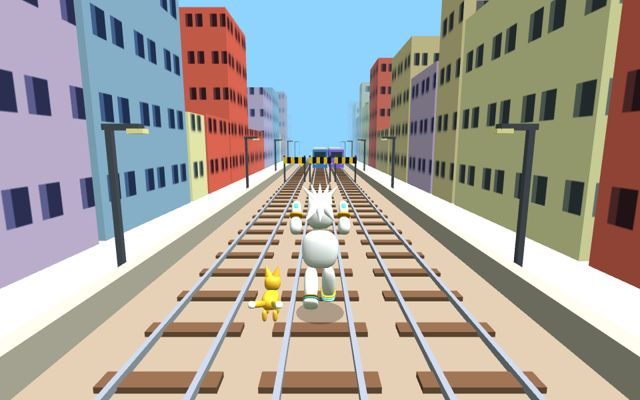
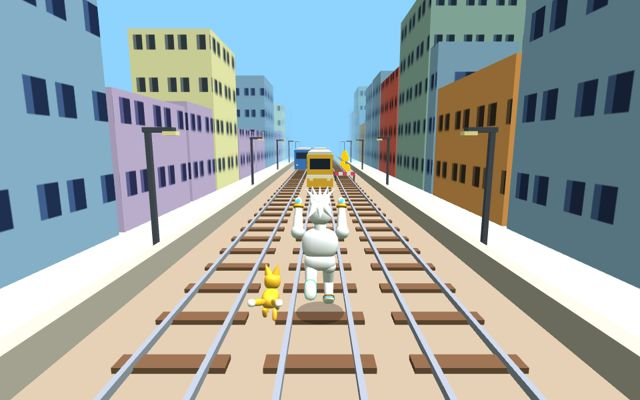
Give Dodge and Weave characters joined, human-like bodies
Limbs are rounded tubes with ball joints at hips, knees, shoulders and
elbows, plus a neck, hips piece, ears and nose, and a smaller head. Knees
and elbows bend while running. Outfit pieces below an elbow or knee move
with it. The lobby card picture shows the new look.

Claude-Session: https://claude.ai/code/session_01NgJignGkaf3RKVr4gwZ8t1

diff --git a/games/rail-rush.js b/games/rail-rush.js
@@ -252,6 +252,11 @@ function ball(r, color, x, y, z, parent, sx = 1, sy = 1, sz = 1) {
   const m = new THREE.Mesh(geo('SphereGeometry', r, 20, 14), mat(color));
   m.position.set(x, y, z); m.scale.set(sx, sy, sz); parent.add(m); return m;
 }
+// A rounded tube from y=top down to y=bottom inside its parent.
+function limb(rTop, rBottom, top, bottom, color, parent) {
+  const m = new THREE.Mesh(geo('CylinderGeometry', rTop, rBottom, top - bottom, 16), mat(color));
+  m.position.y = (top + bottom) / 2; parent.add(m); return m;
+}
 function tube(rTop, rBottom, h, color, x, y, z, parent) {
   const m = new THREE.Mesh(geo('CylinderGeometry', rTop, rBottom, h, 24), mat(color));
   m.position.set(x, y, z); parent.add(m); return m;
@@ -268,7 +273,7 @@ const COSTUMES = {
         box(0.3, 0.2, 0.46, K, s * 0.4, Y(1.5), 0, body);
         box(0.07, 0.7, 0.44, K, s * 0.35, Y(1.18), 0, body);
         box(0.15, 0.17, 0.1, '#8a5a32', s * 0.28, Y(0.84), -0.25, body);
-        box(0.24, 0.08, 0.26, K, 0, -0.36, 0, arms[i]);
+        box(0.22, 0.08, 0.22, K, 0, -0.56, 0, arms[i]);
         box(0.3, 0.06, 0.32, K, 0, -0.22, 0, legs[i]);
         const sword = new THREE.Group(); sword.position.set(s * 0.1, Y(1.25), 0.25); sword.rotation.z = s * 0.45; body.add(sword);
         box(0.06, 0.85, 0.06, '#2b2b30', 0, 0, 0, sword);
@@ -365,12 +370,12 @@ const COSTUMES = {
       for (const i of [-1, 0, 1]) cone(0.13, 0.65, W, i * 0.18, 0.35, 0.3, head, 2.0, -i * 0.3);
       cone(0.16, 0.35, '#ffffff', 0, Y(1.42), -0.22, body, Math.PI, 0);
       for (const arm of arms) {
-        box(0.27, 0.09, 0.29, '#e8a020', 0, -0.38, 0, arm);
-        box(0.1, 0.1, 0.02, '#3ff0f0', 0, -0.55, -0.12, arm);
+        box(0.22, 0.09, 0.22, '#e8a020', 0, -0.56, 0, arm);
+        box(0.08, 0.08, 0.02, '#3ff0f0', 0, -0.66, -0.07, arm);
       }
       for (const leg of legs) {
-        box(0.32, 0.05, 0.44, '#3fd6e0', 0, -0.69, -0.05, leg);
-        box(0.32, 0.04, 0.44, '#e8a020', 0, -0.64, -0.05, leg);
+        box(0.24, 0.04, 0.38, '#3fd6e0', 0, -0.74, -0.06, leg);
+        box(0.24, 0.03, 0.38, '#e8a020', 0, -0.7, -0.06, leg);
       }
     },
   },
@@ -420,27 +425,49 @@ function buildRunner(c) {
   body.position.y = 0.95; root.add(body);
   const Y = y => y - 0.95;
   const legs = [], arms = [];
+  // Limbs are rounded tubes with ball joints at the hips, knees, shoulders and elbows, so
+  // nothing floats apart. Elbows and knees are their own groups so they can bend.
   for (const s of [-1, 1]) {
     const hip = new THREE.Group(); hip.position.set(s * tw * 0.24, Y(0.8), 0); body.add(hip);
-    box(0.28 * t, 0.72, 0.3 * t, P.pants, 0, -0.36, 0, hip);
-    box(0.3 * t, 0.14, 0.42, P.shoes, 0, -0.74, -0.05, hip);
-    legs.push(hip);
-    const sh = new THREE.Group(); sh.position.set(s * (tw / 2 + 0.125 * t), Y(1.52), 0); body.add(sh);
-    box(0.25 * t, 0.36, 0.28 * t, P.sleeve, 0, -0.15, 0, sh);
-    box(0.2 * t, 0.4, 0.22 * t, P.hand, 0, -0.52, 0, sh);
-    arms.push(sh);
+    ball(0.15 * t, P.pants, 0, 0, 0, hip);
+    limb(0.13 * t, 0.11 * t, 0, -0.38, P.pants, hip);
+    const knee = new THREE.Group(); knee.position.y = -0.38; hip.add(knee);
+    ball(0.11 * t, P.pants, 0, 0, 0, knee);
+    limb(0.11 * t, 0.085 * t, 0, -0.33, P.pants, knee);
+    box(0.19 * t + 0.03, 0.12, 0.36, P.shoes, 0, -0.37, -0.06, knee);
+    hip.knee = knee; legs.push(hip);
+
+    const sh = new THREE.Group(); sh.position.set(s * (tw / 2 + 0.08 * t), Y(1.5), 0); body.add(sh);
+    ball(0.14 * t, P.sleeve, 0, 0, 0, sh);
+    limb(0.115 * t, 0.095 * t, 0, -0.32, P.sleeve, sh);
+    const elbow = new THREE.Group(); elbow.position.y = -0.32; sh.add(elbow);
+    ball(0.095 * t, P.hand, 0, 0, 0, elbow);
+    limb(0.09 * t, 0.07 * t, 0, -0.27, P.hand, elbow);
+    ball(0.085 * t, P.hand, 0, -0.34, 0, elbow, 0.9, 1.15, 0.75);
+    sh.elbow = elbow; arms.push(sh);
   }
-  box(tw, 0.78, t < 1 ? 0.3 : 0.42, P.shirt, 0, Y(1.18), 0, body);
-  const head = new THREE.Group(); head.position.y = Y(1.58); body.add(head);
-  box(0.54, 0.54, 0.54, P.skin, 0, 0.29, 0, head);
+  box(tw, 0.62, t < 1 ? 0.3 : 0.42, P.shirt, 0, Y(1.27), 0, body);
+  box(tw * 0.86, 0.36, t < 1 ? 0.27 : 0.38, P.pants, 0, Y(0.9), 0, body);
+  // Neck joins the head to the shoulders; the head is a little smaller than the old cartoon one.
+  tube(0.09 * t + 0.02, 0.1 * t + 0.03, 0.2, P.skin, 0, Y(1.62), 0, body);
+  const head = new THREE.Group(); head.position.y = Y(1.64); head.scale.setScalar(0.84); body.add(head);
+  box(0.54, 0.56, 0.54, P.skin, 0, 0.29, 0, head);
   if (!costume || costume.face !== false) {
-    for (const s of [-1, 1]) box(0.08, 0.11, 0.02, '#1b1530', s * 0.12, 0.33, -0.275, head);
-    box(0.16, 0.035, 0.02, '#8a2f3a', 0, 0.17, -0.275, head);
+    for (const s of [-1, 1]) {
+      box(0.08, 0.1, 0.02, '#1b1530', s * 0.12, 0.33, -0.275, head);
+      ball(0.06, P.skin, s * 0.28, 0.27, 0.02, head, 0.5, 1, 0.8);
+    }
+    box(0.07, 0.1, 0.07, P.skin, 0, 0.24, -0.29, head);
+    box(0.16, 0.035, 0.02, '#8a2f3a', 0, 0.13, -0.275, head);
   }
 
   let cape = null;
   if (costume) {
     costume.decorate({ head, body, arms, legs, Y });
+    for (const [groups, cut] of [[arms, -0.34], [legs, -0.4]]) for (const g of groups) {
+      const joint = g.elbow || g.knee;
+      for (const part of [...g.children]) if (part !== joint && part.position.y < cut) { part.position.y -= joint.position.y; joint.add(part); }
+    }
   } else {
     const hc = c.hairColor;
     if (c.hair === 'short' || c.hair === 'long' || c.hair === 'bun') {
@@ -898,6 +925,9 @@ function update(dt) {
     const air = running && player.y > 0.05, rolling = running && player.roll > 0;
     a.legs[0].rotation.x = air ? -0.7 : s * amp; a.legs[1].rotation.x = air ? 0.4 : -s * amp;
     a.arms[0].rotation.x = air ? 2.6 : -s * amp * 0.9; a.arms[1].rotation.x = air ? 2.6 : s * amp * 0.9;
+    // Knees bend as each leg swings back; elbows stay bent while running.
+    for (const l of a.legs) l.knee.rotation.x = air ? -1.0 : -Math.max(0, -l.rotation.x) * 1.3 - (state === 'custom' ? 0 : 0.1);
+    for (const arm of a.arms) arm.elbow.rotation.x = air ? 0.3 : state === 'custom' ? 0.2 : 1.2;
     if (rolling) {
       const p = 1 - player.roll / ROLL_TIME;
       a.body.rotation.x = -p * Math.PI * 2; a.body.scale.set(0.8, 0.6, 0.8); a.body.position.y = 0.55;
@@ -921,8 +951,8 @@ function update(dt) {
       if (emoteT >= e.dur) emote = null;
       else {
         a.body.rotation.set(0, 0, 0); a.body.position.y = 0.95; a.root.rotation.y = 0;
-        for (const l of a.legs) l.rotation.x = 0;
-        for (const arm of a.arms) arm.rotation.x = 0;
+        for (const l of a.legs) { l.rotation.x = 0; l.knee.rotation.x = 0; }
+        for (const arm of a.arms) { arm.rotation.x = 0; arm.elbow.rotation.x = 0; }
         e.pose(a, emoteT, e.dur);
       }
     } else emote = null;
